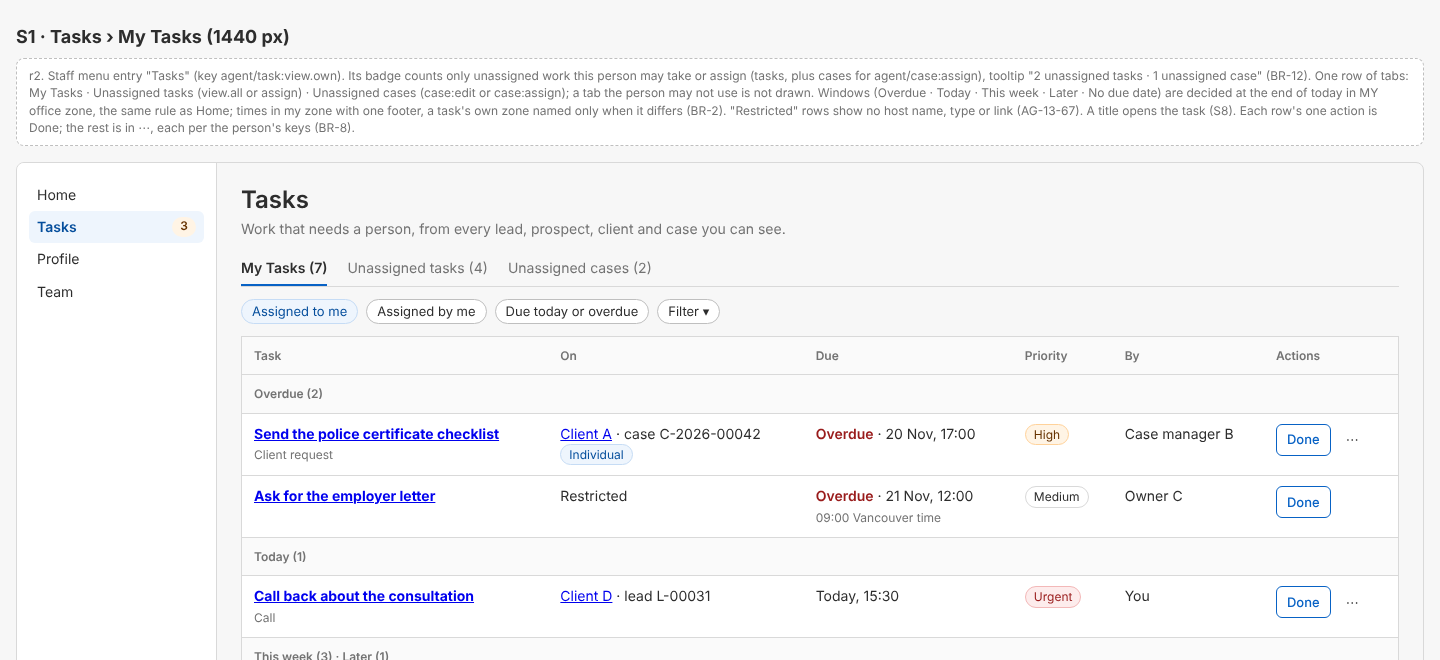
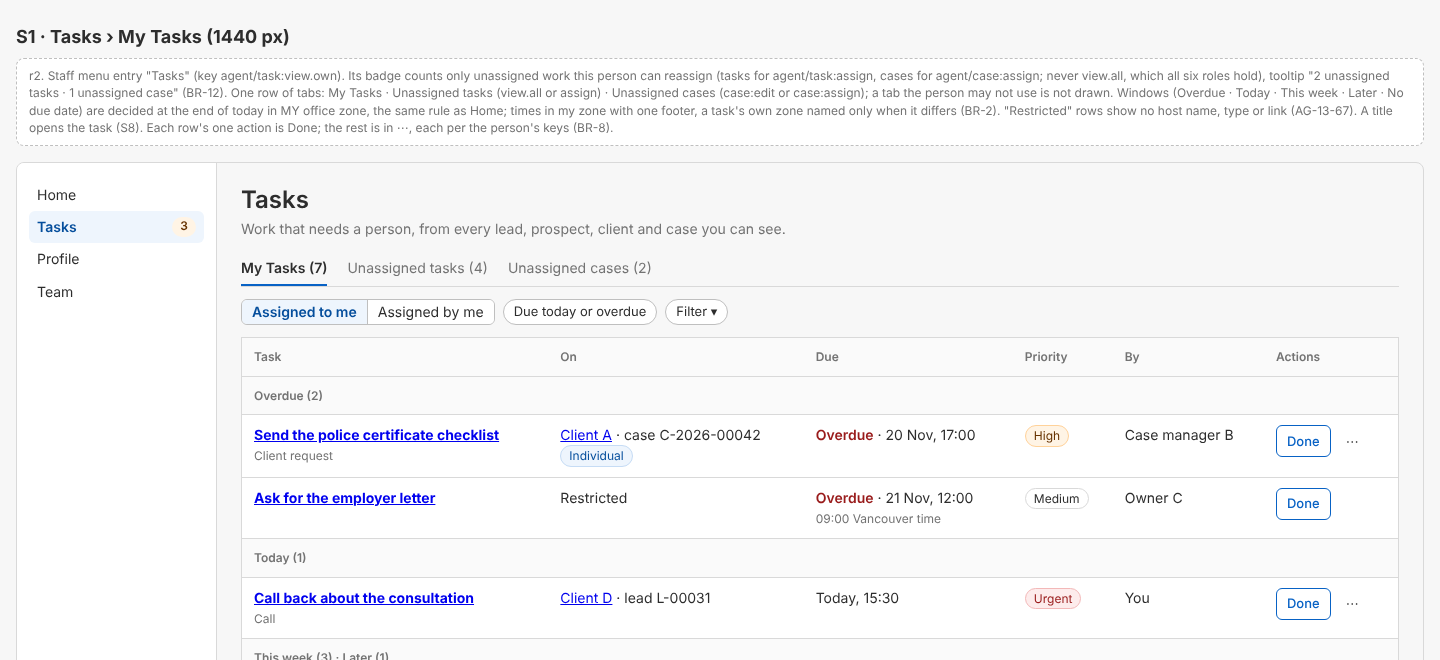
records: PF-29f concept r2.1 — record review round 1: badge and Take it gated by the seeded keys (assign; view.all with edit), the week defined, conflicts and row drift flagged for the tech lead, questions lead with the recommendation, S1 switch
Claude-Session: https://claude.ai/code/session_01Ln6TiSYzRM6E8KxY5Hkrst

diff --git a/ai-workers/problem-1-pathway-setup-and-form-filling/product/screens/tk-tasks/design/tk-boards.html b/ai-workers/problem-1-pathway-setup-and-form-filling/product/screens/tk-tasks/design/tk-boards.html
@@ -75,14 +75,14 @@
 
 <section class="board" id="s1">
   <h2>S1 · Tasks › My Tasks (1440 px)</h2>
-  <p class="note">r2. Staff menu entry "Tasks" (key agent/task:view.own). Its badge counts only unassigned work this person may take or assign (tasks, plus cases for agent/case:assign), tooltip "2 unassigned tasks · 1 unassigned case" (BR-12). One row of tabs: My Tasks · Unassigned tasks (view.all or assign) · Unassigned cases (case:edit or case:assign); a tab the person may not use is not drawn. Windows (Overdue · Today · This week · Later · No due date) are decided at the end of today in MY office zone, the same rule as Home; times in my zone with one footer, a task's own zone named only when it differs (BR-2). "Restricted" rows show no host name, type or link (AG-13-67). A title opens the task (S8). Each row's one action is Done; the rest is in ⋯, each per the person's keys (BR-8).</p>
+  <p class="note">r2. Staff menu entry "Tasks" (key agent/task:view.own). Its badge counts only unassigned work this person can reassign (tasks for agent/task:assign, cases for agent/case:assign; never view.all, which all six roles hold), tooltip "2 unassigned tasks · 1 unassigned case" (BR-12). One row of tabs: My Tasks · Unassigned tasks (view.all or assign) · Unassigned cases (case:edit or case:assign); a tab the person may not use is not drawn. Windows (Overdue · Today · This week · Later · No due date) are decided at the end of today in MY office zone, the same rule as Home; times in my zone with one footer, a task's own zone named only when it differs (BR-2). "Restricted" rows show no host name, type or link (AG-13-67). A title opens the task (S8). Each row's one action is Done; the rest is in ⋯, each per the person's keys (BR-8).</p>
   <div class="shell">
     <nav class="menu" aria-label="Staff menu"><a href="#">Home</a><a href="#" class="on">Tasks <span class="count" title="2 unassigned tasks · 1 unassigned case">3</span></a><a href="#">Profile</a><a href="#">Team</a></nav>
     <main class="page">
       <h1 class="title">Tasks</h1>
       <p class="desc">Work that needs a person, from every lead, prospect, client and case you can see.</p>
       <div class="tabs" role="tablist"><span class="on" role="tab" aria-selected="true">My Tasks (7)</span><span role="tab">Unassigned tasks (4)</span><span role="tab">Unassigned cases (2)</span></div>
-      <div class="chips" aria-label="Filters"><span class="chip on">Assigned to me</span><span class="chip">Assigned by me</span><span class="chip">Due today or overdue</span><span class="chip">Filter ▾</span></div>
+      <div class="chips" aria-label="Filters"><span class="seg" role="group" aria-label="Whose tasks" style="display:inline-flex;border:1px solid var(--border-strong);border-radius:6px;overflow:hidden"><span style="padding:2px 10px;background:var(--info-fill);color:var(--link);font-weight:600" aria-pressed="true">Assigned to me</span><span style="padding:2px 10px;background:#fff;border-left:1px solid var(--border-strong)">Assigned by me</span></span><span class="chip">Due today or overdue</span><span class="chip">Filter ▾</span></div>
       <div class="tablewrap"><table>
         <thead><tr><th>Task</th><th>On</th><th>Due</th><th>Priority</th><th>By</th><th>Actions</th></tr></thead>
         <tbody>

diff --git a/ai-workers/problem-1-pathway-setup-and-form-filling/product/screens/tk-tasks/concept.md b/ai-workers/problem-1-pathway-setup-and-form-filling/product/screens/tk-tasks/concept.md
@@ -1,6 +1,6 @@
 # PF-29f concept: tasks — My Tasks, Unassigned, the Tasks panel on records, the Home section, the hand-over step (R1.75)
 
-Written 22 Nov 2026 by the screens lane on Lead 5's ask (17:38 IST). Row: BACKLOG **PF-29f** (screens, tasks; with batch 5's fold-in of CS-T2). Concept only; nothing is built. Approval: the tech lead after the fresh challenge in `challenge.md` (P-223 (4)). Board: `design/tk-boards.html` (S1-S8, Sample data). The APIs it reads are PF-29b to PF-29e and CS-T1, none on `main` yet: the build waits on them. **r2 (22 Nov):** revised after `challenge.md` (M1-M7, m1-m6 answered in §8).
+Written 22 Nov 2026 by the screens lane on Lead 5's ask (17:38 IST). Row: BACKLOG **PF-29f** (screens, tasks; with batch 5's fold-in of CS-T2). Concept only; nothing is built. Approval: the tech lead after the fresh challenge in `challenge.md` (P-223 (4)). Board: `design/tk-boards.html` (S1-S8, Sample data). The APIs it reads are PF-29b to PF-29e and CS-T1, none on `main` yet: the build waits on them. **r2 (22 Nov):** revised after `challenge.md` (M1-M7, m1-m6 answered in §8). **r2.1:** the record reviewer's round 1 (the badge and Take it gates; Minors 2-7).
 
 ## 1. Job and journey
 **Job:** every staff member sees the work that needs them, in due order, and can add, read, take, hand on and finish it where they are. Personas: case officer (My Tasks, the record panel), case manager or Owner (Unassigned, bulk, the hand-over). Requirement text (trace tool): **AG-13-5** (My Tasks), **AG-13-62** (Unassigned list, badge), **AG-13-63** (hand-over), **AG-13-67** (visibility, "restricted"), **AG-11-115** (the Home's "My Tasks" section). Journey (map row 75): a task is added on a lead → it shows in its owner's My Tasks and on Home when due → done; a task with no owner → Unassigned → Take it; a colleague leaves → their open tasks move in one step.
@@ -13,22 +13,22 @@ Written 22 Nov 2026 by the screens lane on Lead 5's ask (17:38 IST). Row: BACKLO
 
 ## 3. Business rules
 * **BR-1 My Tasks = mine, both ways** (AG-13-5): assigned to me (default) or by me; never filtered by the Individual/Corporate view; a client or case task shows its type label, a lead's and a Restricted one's none (AG17-D6, AG-13-67).
-* **BR-2 One "today", my zone** (AG-11-115 rule 2; r2, M4): the server decides each task's window (Overdue · Today · This week · Later · No due date) at the end of today **in my office zone**, the same function for My Tasks and Home; the list shows times in my zone with one footer "Times in Toronto time", and names a task's own zone only when it differs ("15:30 Vancouver time"). Bulk "Due date…" keeps each task's zone and sets the date in it. "Overdue" in words and red, never colour alone.
+* **BR-2 One "today", my zone** (AG-11-115 rule 2; r2, M4): the server decides each task's window (Overdue · Today · This week (to the end of Sunday) · Later · No due date) at the end of today **in my office zone** (AG-13-5 says "firm TZ", PF-29c and this row say "the item's office zone": a conflict, question 3), the same function for My Tasks and Home; the list shows times in my zone with one footer "Times in Toronto time", and names a task's own zone only when it differs ("15:30 Vancouver time"). Bulk "Due date…" keeps each task's zone and sets the date in it. "Overdue" in words and red, never colour alone.
 * **BR-3 Restricted parents stay nameless** (AG-13-67 (c)): title and "Restricted" only: no name, number, status, type or link; the assignee can still read the task (its details) and mark it Done. Counts and the Home section follow the same rule.
-* **BR-4 Unassigned tasks** (AG-13-62): open, no assignee, for `agent/task:view.all` or `:assign`, each passing its host's visibility; **lead tasks are not listed** (Unassigned leads, AG-2-13c). Take it (myself) and Assign… (`:assign`). No "why unassigned" column (r2, M1: no record holds it).
+* **BR-4 Unassigned tasks** (AG-13-62): open, no assignee, for `agent/task:view.all` or `:assign` (AG-13-62's "or"; PF-29c's text says "+": question 3), each passing its host's visibility; **lead tasks are not listed** (Unassigned leads, AG-2-13c). Take it (myself) and Assign… (`:assign`). No "why unassigned" column (r2, M1: no record holds it).
 * **BR-5 First Take it wins** (PF-29b): the loser reads "<name> already has this task" and the row leaves the list; cases: "<name> already has this case" (CS-T1, AG-7-106).
 * **BR-6 Bulk, up to 200, all or nothing** (AG-13-6, PF-29c): Assign to, Priority, Due date, Mark done on ticked rows, for `agent/task:bulk`; one refused id refuses all, said in words.
 * **BR-7 Unassigned cases** (batch 5, CS-T1): the third tab, for `agent/case:edit` or `:assign`; nearest government deadline first; Take it (`:edit`, self), Assign… (`:assign`); its rows show the stage (task rows do not: no host carries it; r2, m5).
-* **BR-8 Actions follow keys** (AG-13 §6, §10, AG-13-67 (c); r2, M7): Add a task needs `:create`; Edit, Cancel… and Reopen need `:edit`; Done needs being the assignee or `:edit`; Assign… and Reassign… need `:assign`; Take it needs `:assign` or `view.all`; a person with none sees a muted "You can view these tasks". The server enforces each (PF-29b).
+* **BR-8 Actions follow keys** (AG-13 §6, §10, AG-13-67 (c); r2, M7): Add a task needs `:create`; Edit, Cancel… and Reopen need `:edit`; Done needs being the assignee or `:edit`; Assign… and Reassign… need `:assign`; **Take it needs `:assign`, or `view.all` with `:edit`** (seeded: Owner, Admin, Case Manager, Case Officer; not Billing / Finance or Read-only, SA-06 §10 rows `agent/task:*`); a person without them sees a muted "You can view these tasks" (Read-only sees the Unassigned tab, through `view.all`, but no Take it). The server enforces each (PF-29b).
 * **BR-9 The Tasks panel on a record** (row): lead, prospect, client and case pages; open first in due order, done and cancelled folded; the prospect page lists every task on its `fo_person` host (lead-time ones included, context shown); Add a task (title 1-200, optional due date and time in the **record's** office zone, named, assignee from active staff of this firm or Unassigned, priority Low/Medium/High/Urgent default Medium, optional category with suggestions "Client request", "Call", optional details ≤ 5,000).
 * **BR-10 A task can be read** (AG-13-67 (c) "on the task itself"; r2, M6): a title opens the task's side panel: details, On (or "Restricted"), due, priority, assignee, created by and when, and the actions BR-8 allows.
-* **BR-11 Home: "My Tasks"** (AG-11-115 section 2): mine, Open or In progress, due by the end of today in my zone (BR-2); after "Needs you"; not drawn when empty; government-deadline items first, then urgent or overdue (oldest due first), then by due time; at most 20 with the total in words (as PF-18h); "see all" opens My Tasks with the filter "Due today or overdue" on, so the numbers match.
-* **BR-12 One badge, one meaning** (AG-13-62; r2, M5): the Tasks menu entry's count is unassigned work this person may take or assign: tasks (`view.all` or `:assign`) plus cases (`agent/case:assign`), tooltip "2 unassigned tasks · 1 unassigned case"; nobody else sees a count. It is the "home-screen badge" (the menu sits on Home). Question 2.
-* **BR-13 Hand-over on deactivation** (AG-13-63, PF-29e; r2, M2): the Deactivate dialog reads the person's open tasks first; with none it is today's dialog; with some it shows the count, the first 10 and one owner picker (active staff of this firm whose role holds `agent/task:view.own`; never the leaver, suspended or inactive people) and "Reassign and deactivate" or "Deactivate and leave them unassigned"; the choice rides in the deactivate request (and its step-up re-send) and applies in the deactivation transaction, tasks opened meanwhile included; the toast states the number moved, from the server.
+* **BR-11 Home: "My Tasks"** (AG-11-115 section 2): mine, Open or In progress, due by the end of today in my zone (BR-2); after "Needs you"; not drawn when empty; government-deadline items first (that tier stays empty until letter tasks arrive, AG-10-71), then urgent or overdue (oldest due first), then by due time; at most 20 with the total in words (as PF-18h); "see all" opens My Tasks with the filter "Due today or overdue" on, so the numbers match.
+* **BR-12 One badge, one meaning** (AG-13-62 "for anyone who can reassign"; r2, M5; r2.1): the Tasks menu entry's count is unassigned work this person can reassign: tasks for `agent/task:assign` holders (Owner, Admin, Case Manager) plus cases for `agent/case:assign` holders, tooltip "2 unassigned tasks · 1 unassigned case"; nobody else sees a count (not `view.all`, which all six starter roles hold, SA-6-24). It is the "home-screen badge" (the menu sits on Home). Question 2.
+* **BR-13 Hand-over on deactivation** (AG-13-63, PF-29e; r2, M2; the row's "inside PF-6's dialog" becomes a dialog of its own, and AG-13-63's "Reassign now / Skip" is worded as below: question 3): the Deactivate dialog reads the person's open tasks first; with none it is today's dialog; with some it shows the count, the first 10 and one owner picker (active staff of this firm whose role holds `agent/task:view.own`; never the leaver, suspended or inactive people) and "Reassign and deactivate" or "Deactivate and leave them unassigned"; the choice rides in the deactivate request (and its step-up re-send) and applies in the deactivation transaction, tasks opened meanwhile included; the toast states the number moved, from the server.
 * **BR-14 Plain names** (AG17-D61, PRODUCT §4): "Tasks", "My Tasks", "Unassigned tasks", "Unassigned cases"; never "My Work" or "My Day".
 
 ## 4. Layout (EXPERIENCE §3: Library list for the Tasks page (chips for facets); Side panel for one task; Dialog for Add a task and Deactivate; a section on records and Home)
-* **S1 Tasks page** `/tasks` in PlatformFrame; menu entry "Tasks" (key `view.own`) with BR-12's badge. One row of tabs with counts; a tab the person may not use is not drawn. Above the table: "Assigned to me / by me" (a two-way switch), "Due today or overdue" and one "Filter" menu (status, priority, On). Table: Task · On · Due · Priority · By · Done and ⋯ (Edit, Reassign…, Cancel…), each per BR-8. **S2 Unassigned tasks:** a checkbox column and the bulk bar. **S3 Unassigned cases:** Case · Client · Stage · Next deadline · Type.
+* **S1 Tasks page** `/tasks` in PlatformFrame; menu entry "Tasks" (key `view.own`) with BR-12's badge. One row of tabs with counts; a tab the person may not use is not drawn. Above the table: "Assigned to me / by me" (a two-way segmented switch), "Due today or overdue" and one "Filter" menu (status, priority, On). Table: Task · On · Due · Priority · By · Done and ⋯ (Edit, Reassign…, Cancel…), each per BR-8. **S2 Unassigned tasks:** a checkbox column and the bulk bar. **S3 Unassigned cases:** Case · Client · Stage · Next deadline · Type.
 * **S4 Tasks panel** on a record and **Add a task** (Dialog). **S5 Home section.** **S6 Deactivate dialog** with the hand-over. **S7 phone:** cards with Done 44 px tall; tabs and filters scroll in their own row with a fade. **S8 one task** (Side panel, 480-560 px).
 * **States:** loading (skeleton rows) · empty ("Nothing due. Tasks you are given or add show here." / "No unassigned tasks." / "No case is waiting for an officer.") · error (Notice + Try again) · lost race (warn Notice naming the person) · bulk refused (Notice with the reason, nothing changed) · long titles wrap · read-only ("You can view these tasks") · conflict (409 "This task changed. Reload to see it.").
 
@@ -46,20 +46,21 @@ UXL-01 one filled button per view. 02/03 the board's fields and rows (tokens). 0
 
 ## 6. Contract and tests
 * **Contract per answer** (zod in `tasks/contract.ts`; which row returns it): list item `{id, version, title, category, description, windowWord, dueAt, dueZone, priority, status, assignee, createdBy, createdAt, host: {label, url, typeLabel} | "RESTRICTED", context}` (PF-29c; `typeLabel` and the host's office zone from PF-29b's `registerHost`; `version` from PF-29a); `total` on `mine`, `unassigned`, `home` (PF-29c); `GET …/tasks/:id` (PF-29b); `GET …/tasks/badge` → `{tasks, cases}` (PF-29c with CS-T1); hand-over preview `GET /api/platform/staff/:id/open-tasks` → `{count, first[10], offered[]}` and the deactivate body's `tasks: {to} | "unassign"` (PF-29e); CS-T1 queue item `{caseId, caseNumber, clientName, stage, nextDeadlineAt, typeLabel}` with `total`.
-* `tests/check_tk6_tasks_browser.ts` (Playwright, isolated copy, Sample firm), a pass and a fail per rule: BR-1 a task I assigned is under "Assigned by me" / not "to me"; BR-2 on a fixed clock a Toronto officer at 22:00 sees a task due 23:30 Vancouver time under Later, named in Vancouver time, and Home leaves it out / a 23:30 Toronto task is Today and on Home; BR-3 a Restricted task shows no name, type or link and its details open / another person does not see it; BR-4 a prospect task is listed / a lead task is not, and no tab without the keys; BR-5 two browsers Take it: one wins, the other reads the name; BR-6 bulk reassign 3 / one refused id (fake) → "Nothing changed", none moved; BR-7 without `case:assign` no Assign… on cases; BR-8 Read-only sees "You can view these tasks" and no Cancel / the assignee sees Done; BR-9 add a task on a lead → in My Tasks with its zone / a 201-character title refused on the field; BR-10 a title opens its panel with details; BR-11 Home count equals My Tasks with "Due today or overdue" on, Urgent above Medium / no section when none is due; BR-12 badge tooltip names both numbers / a Case officer without `:assign` or `view.all` sees no badge; BR-13 5 open + 2 done, choose B → 5 move, toast "5 open tasks moved" / a suspended person is not offered, and the choice survives "Confirm it's you". Keyboard only, axe 0 serious, 375/1024/1440 (and 1280 for §7), screen-reader names on icon buttons. The cross-firm bulk refusal stays in `check_tk3_task_queues.ts` (m6).
+* `tests/check_tk6_tasks_browser.ts` (Playwright, isolated copy, Sample firm), a pass and a fail per rule: BR-1 a task I assigned is under "Assigned by me" / not "to me"; BR-2 on a fixed clock (Sunday 22 Nov, 22:00 Toronto) a task due 23:30 Vancouver time is not Today, not Overdue and not on Home, and is named in Vancouver time / a 23:30 Toronto task is Today and on Home; BR-3 a Restricted task shows no name, type or link and its details open / another person does not see it; BR-4 a prospect task is listed / a lead task is not (no-tab-without-keys needs a role with `view.all` removed: in `check_tk3_task_queues.ts` as a 403, no role editor on `main`); BR-5 two browsers Take it: one wins, the other reads the name; BR-6 bulk reassign 3 / one refused id (fake) → "Nothing changed", none moved; BR-7 without `case:assign` no Assign… on cases; BR-8 Read-only sees "You can view these tasks", no Cancel and no Take it on the Unassigned tab / the assignee sees Done and a Case Officer sees Take it; BR-9 add a task on a lead → in My Tasks with its zone / a 201-character title refused on the field; BR-10 a title opens its panel with details; BR-11 Home count equals My Tasks with "Due today or overdue" on, Urgent above Medium / no section when none is due; BR-12 a Case Manager's badge tooltip names both numbers / a Case Officer (no `:assign`) sees no badge; BR-13 5 open + 2 done, choose B → 5 move, toast "5 open tasks moved" / a suspended person is not offered, and the choice survives "Confirm it's you". Keyboard only, axe 0 serious, 375/1024/1440 (and 1280 for §7), screen-reader names on icon buttons. The cross-firm bulk refusal stays in `check_tk3_task_queues.ts` (m6).
 * Journey **J-75** (`tests/journeys/j_75.ts`): lead → Add a task → My Tasks → Home → Done; Unassigned → Take it.
 
 ## 6b. Capability or scaffolding (P-33, P-26)
 All elements are the capability, *Needed for the proof* (R1.75). Not built here: government-letter tasks (AG-10-71), nurture rows (AG-2-45) and booking prompts on Home (AG-11-115); Unassigned leads (AG-2-13c); the case hand-over (AG-7-43) and leaver reports (X-18); archive from the screen; today's `CaseTask` items in My Tasks until question 1 is answered. Scaffolding until the APIs merge: the typed fakes (never bound in the app).
 
 ## 7. Questions (recommendation first)
-1. **For the founder: today's after-filing case items in My Tasks?** (M3) CS-T1 shows `CaseTask` rows read-only in My Tasks; AG-13-65 says items with no owner and no due date do not become tasks. **Recommend** showing them read-only (owner: the case's officer; "No due date"; one link "Open the filing", no Done), so the officer does not miss them; they never become tasks.
-2. **For the founder: what the unassigned-work badge counts.** (M5) **Recommend** BR-12: unassigned tasks the person may see plus unassigned cases for `agent/case:assign` holders, one badge on the Tasks entry; unassigned leads stay on their own list.
-3. **For the tech lead:** carry §8's contract lines into the PF-29a/b/c/e and CS-T1 briefs (with lead tasks excluded from `…/unassigned`, the Home order and cap, `total`), and confirm the Home heading "My Tasks" (AG-11-115, AG17-D61) over the row's "Due today or overdue" (kept as the count line).
+1. **For the founder: today's after-filing case items in My Tasks? Recommend yes, read-only** (owner: the case's officer; "No due date"; one link "Open the filing", no Done), so the officer does not miss them; they never become tasks. (M3: CS-T1 shows `CaseTask` rows read-only in My Tasks; AG-13-65 says items with no owner and no due date do not become tasks.)
+2. **For the founder: what the unassigned-work badge counts. Recommend** BR-12: unassigned tasks for people who can reassign tasks (`agent/task:assign`: Owner, Admin, Case Manager) plus unassigned cases for `agent/case:assign` holders, one badge on the Tasks entry; unassigned leads stay on their own list. (M5. Not `view.all`: all six starter roles hold it, so everyone would see a count.)
+3. **For the tech lead: recommend** carrying §8's lines into the PF-29a/b/c/e and CS-T1 briefs and the PF-29f row: lead tasks excluded from `…/unassigned` and its gate "`view.all` or `:assign`" (AG-13-62, not PF-29c's "+"); windows in my office zone (AG-11-115) over AG-13-5's "firm TZ" and the row's "item's office zone"; the Home heading "My Tasks" (AG-11-115, AG17-D61) with "Due today or overdue" as its count line; the Home order and cap and `total`; Deactivate as its own dialog with the wording of BR-13.
 
 ## 8. Challenge answers (r2)
 * **M1** → §6 contract table; "why unassigned" dropped. **M2** → BR-13, a Deactivate dialog of its own, PF-29e's preview and body. **M3** → question 1; not drawn until answered. **M4** → BR-2 (one "today", my zone; bulk keeps each zone), BR-11. **M5** → BR-12, question 2, the `count` on `AccountSection`. **M6** → BR-10, S8, `GET …/tasks/:id`. **M7** → BR-8.
 * **m1** → BR-1, BR-3, the tooltip. **m2** → BR-11. **m3** → §4d; BIC-08 N/A. **m4** → §2 (`staffApi` on the case page; the `subject` shape), BR-9 (the prospect page's list). **m5** → BR-7, one copy string. **m6** → §6.
+* **Record review r2.1:** finding 1 → BR-8 (Take it), BR-12, question 2, the BR-4/8/12 tests; 2 → BR-2 (week) and its test; 3 → BR-2, question 3; 4 → BR-4, BR-13, question 3; 5 → BR-11; 6 → questions 1-3 lead with the recommendation; 7 → S1's segmented switch.
 * Lines for the briefs (the tech lead carries them): PF-29a `version`; PF-29b `registerHost` returns `typeLabel` and the host's office zone, and `GET /tasks/:id`; PF-29c `windowWord` by my zone, `total`, `badge`, lead tasks excluded from `unassigned`, Home order and cap, the "Due today or overdue" filter; PF-29e the preview route and the deactivate body; CS-T1 its queue item fields and `total`.
 
 ## Definition of ready
